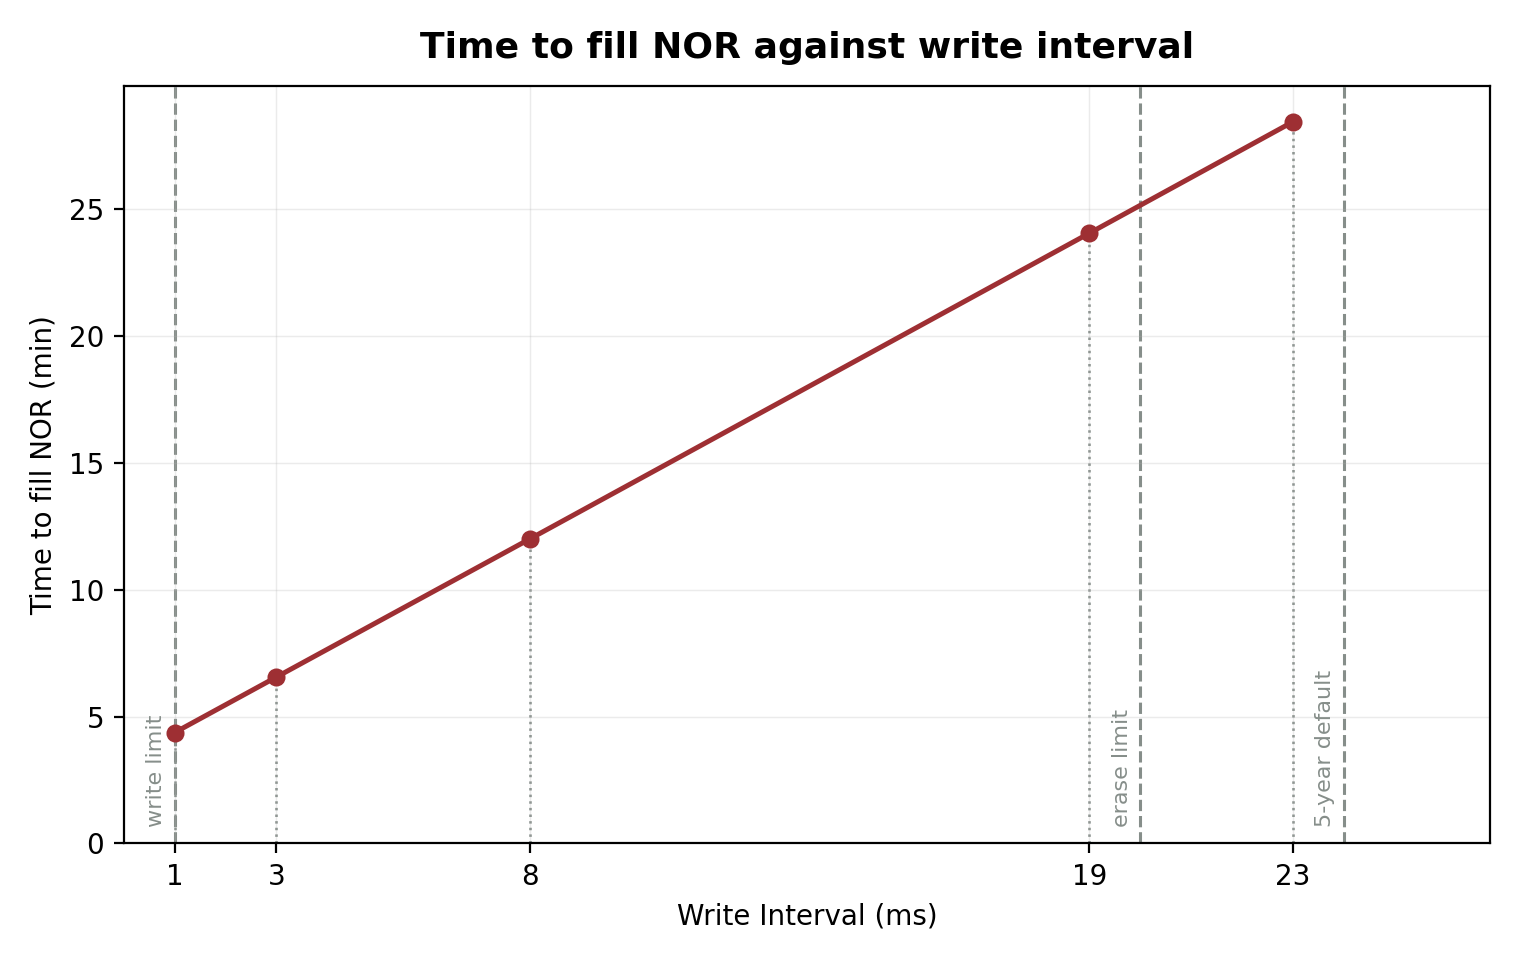
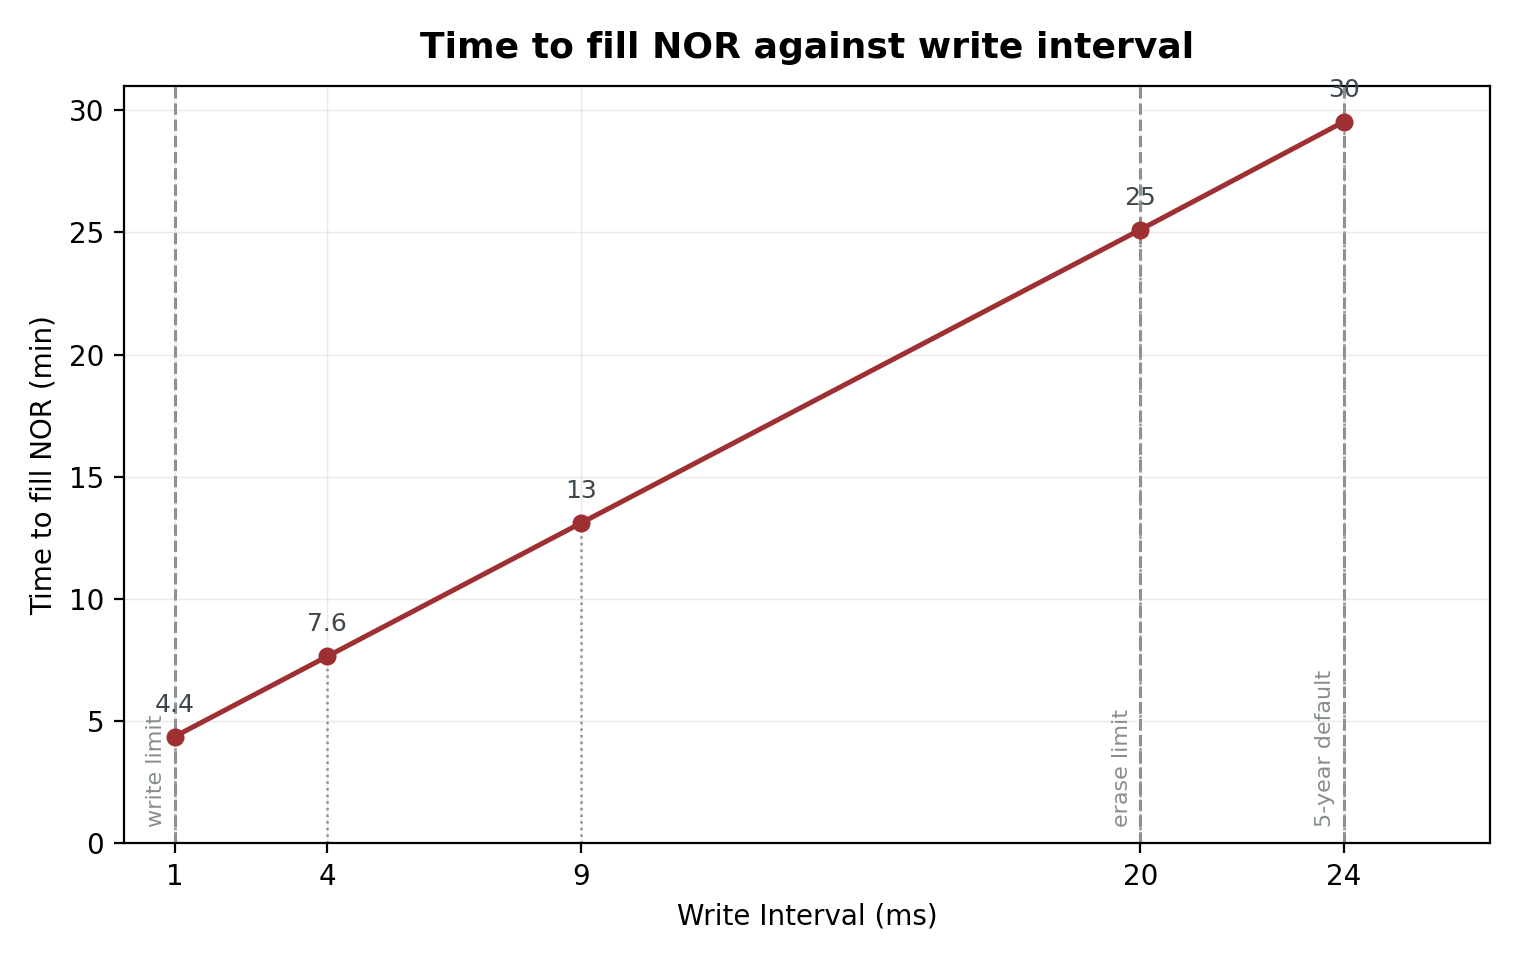
fig5: measured 20 and 24 ms, values back on the points
The sweep now lands where it aims -- 24, 20, 9, 4, 1 -- so both reference
lines pass through real measurements instead of sitting between them.

Also moves the RESID emission out of the chase branch. It had been inserted
after the first POINT printf in the file, which is the chase-only one, so
--resid-every produced nothing on the normal path and the timeline CSV came
back with an empty residency column for all 5,035 passes.

diff --git a/workloads/matmul/matmul.c b/workloads/matmul/matmul.c
@@ -850,13 +850,6 @@ int main(int argc, char **argv)
             printf("  run %2d/%d  %8.3f s   %7.1f ns/access\n",
                    r + 1, RUNS, t[r], t[r] * 1e9 / (double)lines);
             printf("POINT %d %.6f %.3f\n", r + 1, t[r], now() - t_start);
-        if (resid_every && (r % resid_every) == 0) {
-            if (!phys_ready)
-                phys_open();
-            printf("RESID %d %.3f %.2f\n", r + 1, now() - t_start,
-                   weights_ltram_pct());
-            fflush(stdout);
-        }
             fflush(stdout);
             if (do_phys) {
                 char tag[16];
@@ -936,6 +929,13 @@ int main(int argc, char **argv)
          * against the promotion curve sampled by the driving script. */
         printf("POINT %d %.6f %.3f\n", r + 1, t[r], now() - t_start);
         fflush(stdout);
+        if (resid_every && (r % resid_every) == 0) {
+            if (!phys_ready)
+                phys_open();
+            printf("RESID %d %.3f %.2f\n", r + 1, now() - t_start,
+                   weights_ltram_pct());
+            fflush(stdout);
+        }
         if (do_phys) {
             char tag[16];
             snprintf(tag, sizeof tag, "run%d", r + 1);

diff --git a/scripts/plot_selftest.py b/scripts/plot_selftest.py
@@ -156,10 +156,11 @@ if r:
     DEFAULT_MS = 24    # the five-year service budget
     fig, ax = plt.subplots(figsize=(7.6, 4.8))
     ax.plot(iv, mins, marker=M_COLD, ls="-", color=C_NOR, lw=1.8, ms=5.5, zorder=3)
-    # Drop lines only. They point each measurement at its x tick; the y value
-    # reads off the axis, so printing it beside the marker repeats the figure.
     for x_, y_ in zip(iv, mins):
         ax.vlines(x_, 0, y_, color=C_GRID, ls=":", lw=.9, zorder=1)
+        ax.annotate(f"{y_:.0f}" if y_ >= 10 else f"{y_:.1f}", (x_, y_),
+                    textcoords="offset points", xytext=(0, 9), ha="center",
+                    fontsize=9, color="#3d474e")
     ax.set_ylim(bottom=0)
     ax.set_xlim(left=0, right=max(max(iv), DEFAULT_MS) * 1.12)
     ax.set_xticks(sorted(set(iv)))
